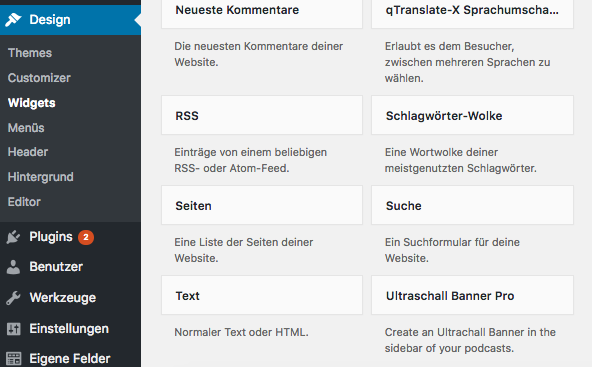
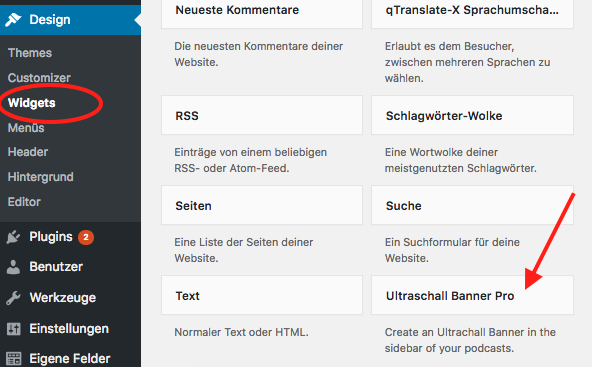
step 4

Changed region(s): [[0.0, 0.2098, 0.1824, 0.3597], [0.8818, 0.5095, 0.973, 0.7793]]

diff --git a/plugins/README.md b/plugins/README.md
@@ -8,15 +8,20 @@ DE: Lade dir das PlugIn <a href="https://github.com/Ultraschall/Ultraschall-Bann
 
 #### Step 2
 DE: Lade per FTP das Plugin "ultraschall-banner-pro" in das entsprechende Wordpress Verzeichnis:
+
 <code>/<wordpress-path>/wp-content/plugins/ultraschall-banner-pro</code>
 
 #### Step 3
-DE: aktiviere das PlugIn in Wordpress unter: Plugin > Ultraschall-Banner Pro.
+DE: aktiviere das PlugIn in Wordpress unter:
+
+<code>Plugin > Ultraschall-Banner Pro</code>.
+
 <img src="https://raw.githubusercontent.com/Ultraschall/Ultraschall-Banner/master/plugins/1-us_banner-wordpress.png">
 
 #### Step 4
-DE: Erstelle ein neues Widget für deine Sitebar.
-<img src="https://raw.githubusercontent.com/Ultraschall/Ultraschall-Banner/master/plugins/1-us_banner-wordpress.png">
+DE: Gehe in dein Theme unter: <code>Design > Widgets</code> und erstelle ein neues Widget für deine Sitebar.
+
+<img src="https://raw.githubusercontent.com/Ultraschall/Ultraschall-Banner/master/plugins/2-us_banner-wordpress.png">
 
 
 
